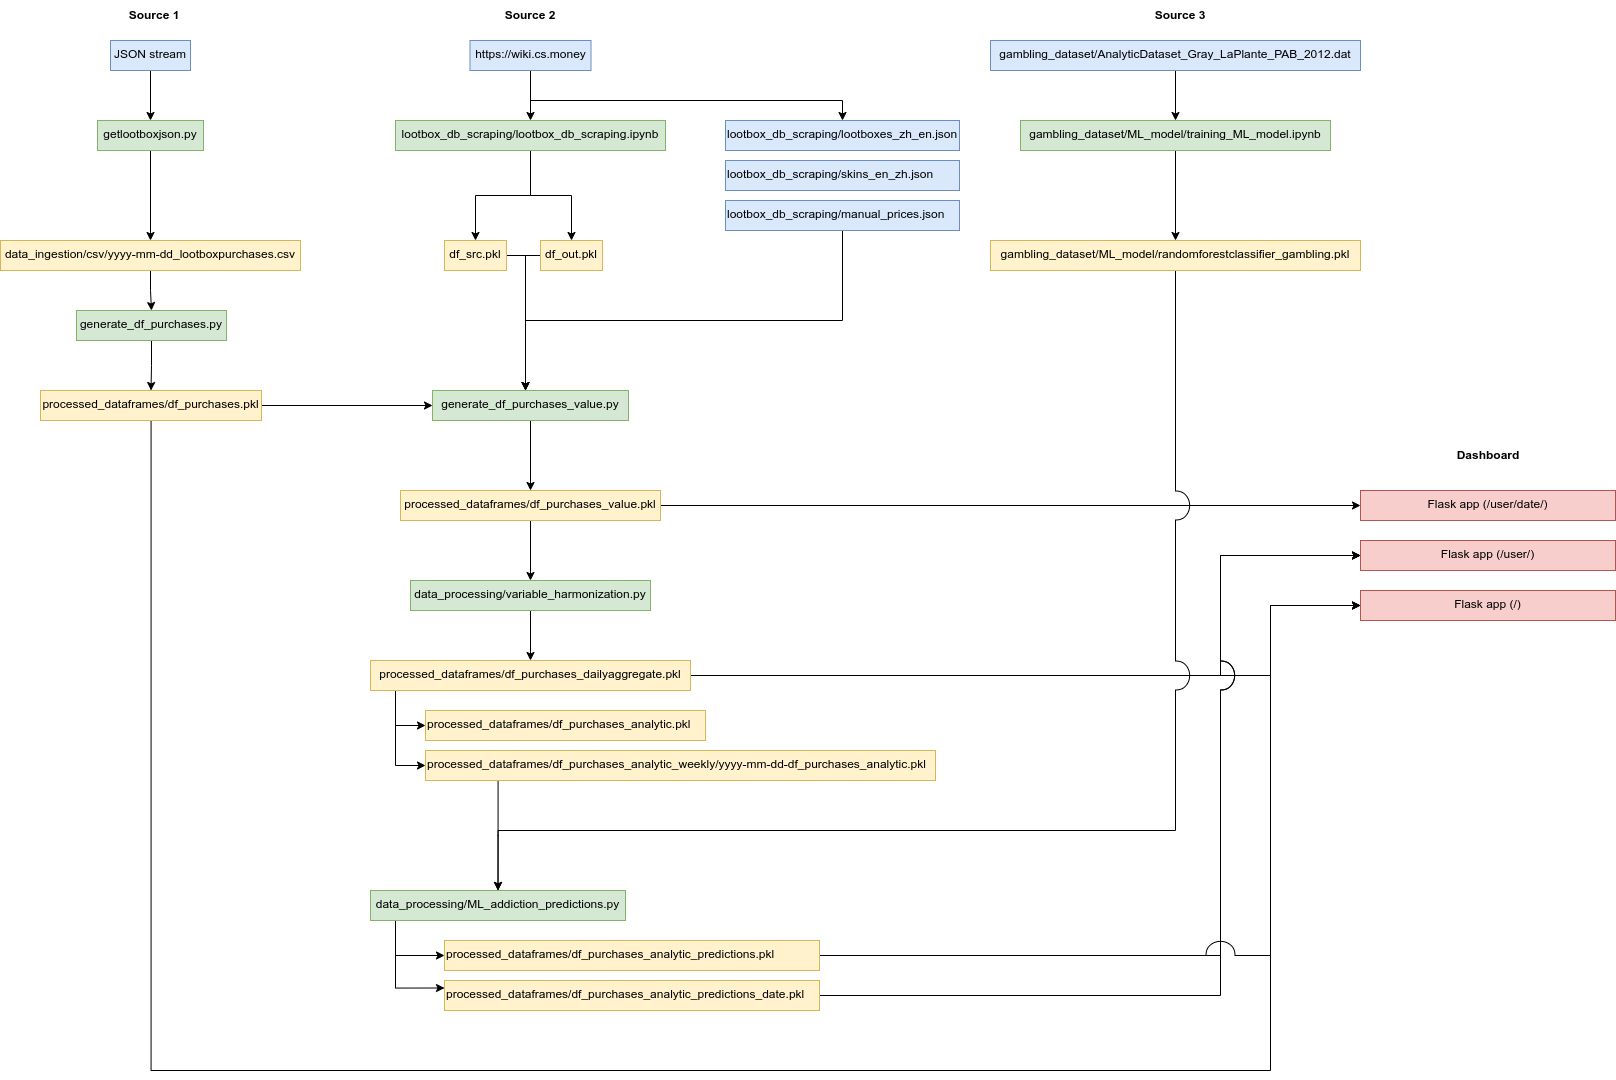
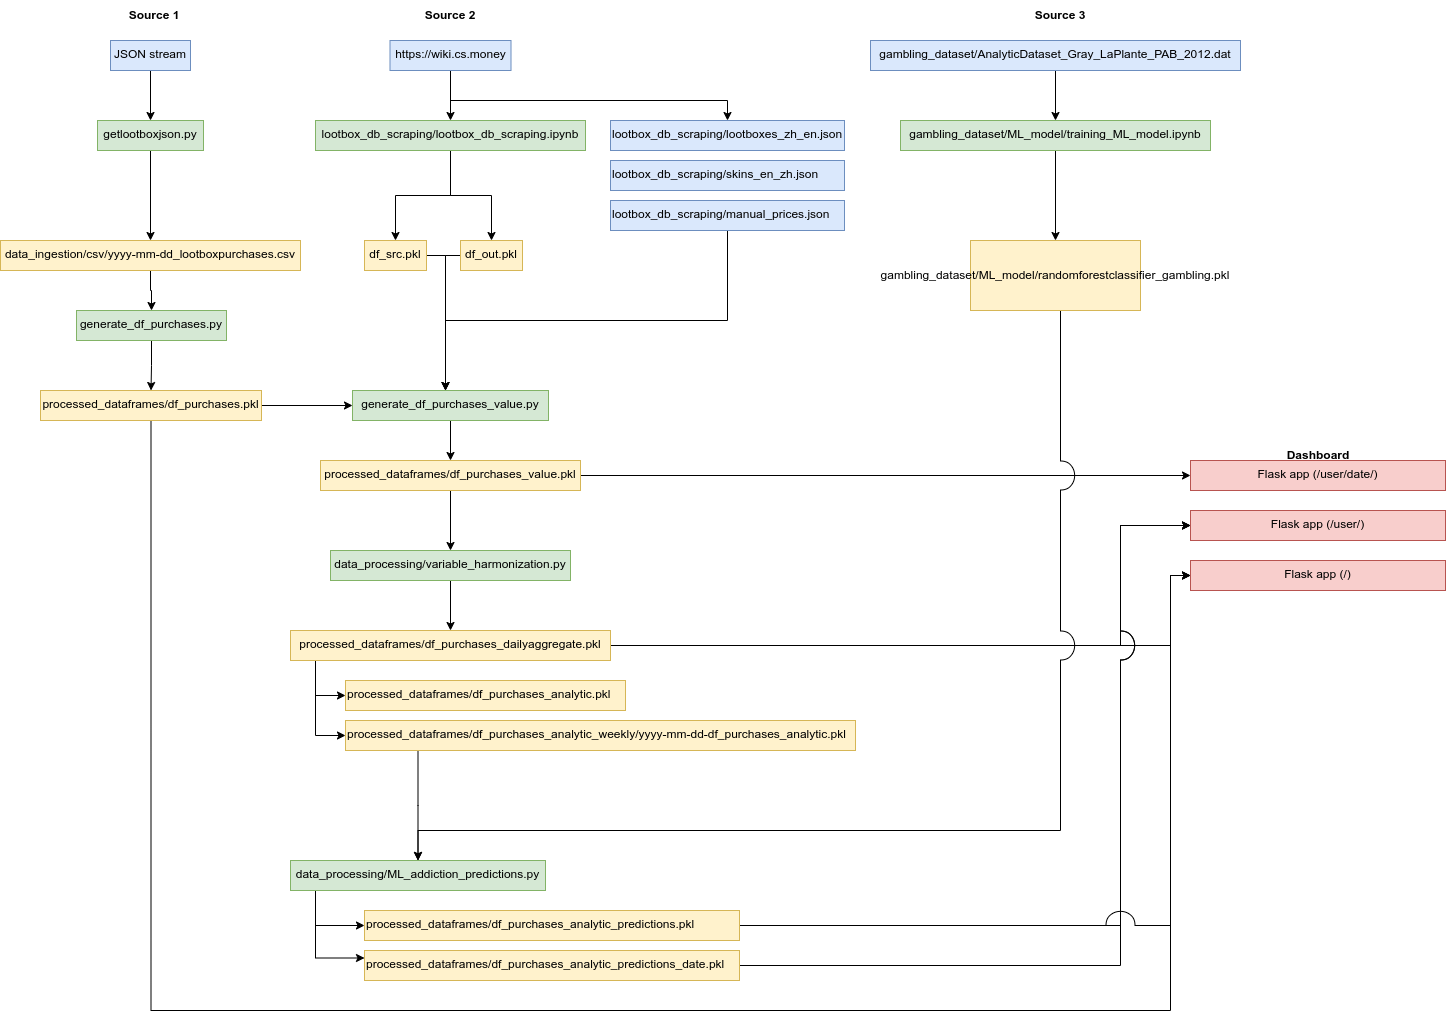
Updated documentation

diff --git a/docs/underthehood.md b/docs/underthehood.md
@@ -74,12 +74,19 @@ ML model training:
         processed_dataframes/df_purchases_analytic_weekly/yyyy-mm-dd-df_purchases_analytic.pkl
 
 ## Machine Learning model training
-Random Forest Classifier
+`gambling_dataset/ML_model/training_ML_model.ipynb`
+
+    input:
+        gambling_dataset/AnalyticDataset_Gray_LaPlante_PAB_2012.dat
+    output:
+        gambling_dataset/ML_model/randomforestclassifier_gambling.pkl
+
 
 ## ML Predictions
 `ML_addiction_predictions.py`
 
     input:
+        gambling_dataset/ML_model/randomforestclassifier_gambling.pkl
         processed_dataframes/df_purchases_analytic.pkl
         processed_dataframes/df_purchases_analytic_weekly/yyyy-mm-dd-df_purchases_analytic.pkl
     output:
